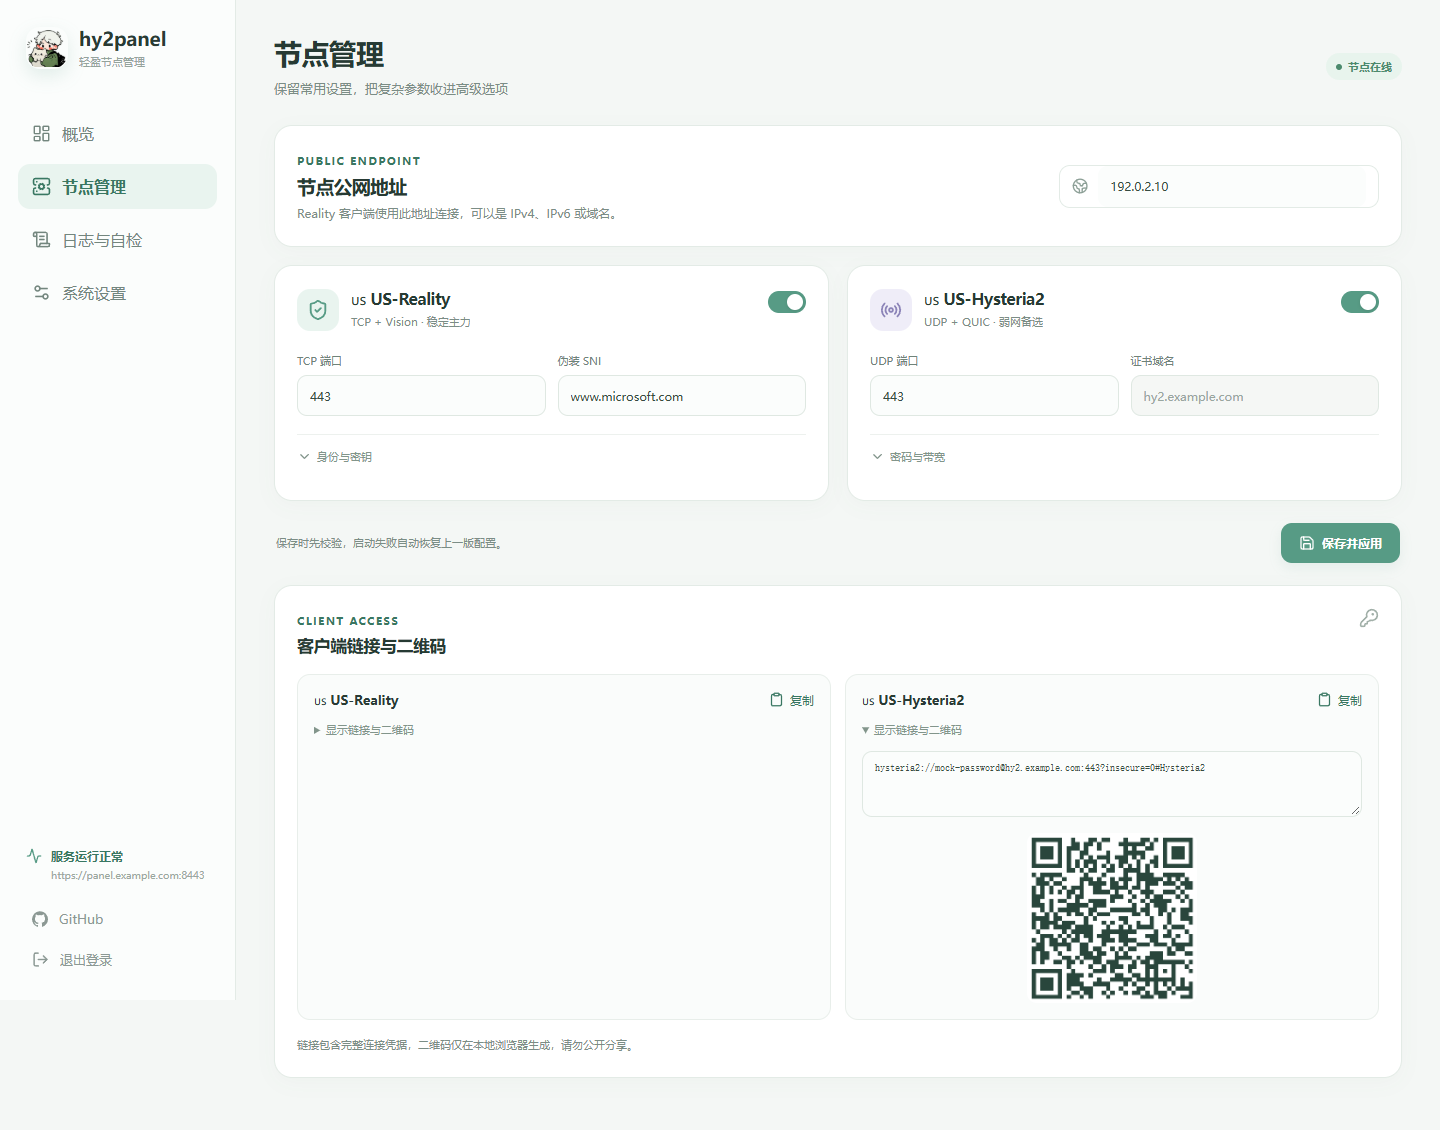
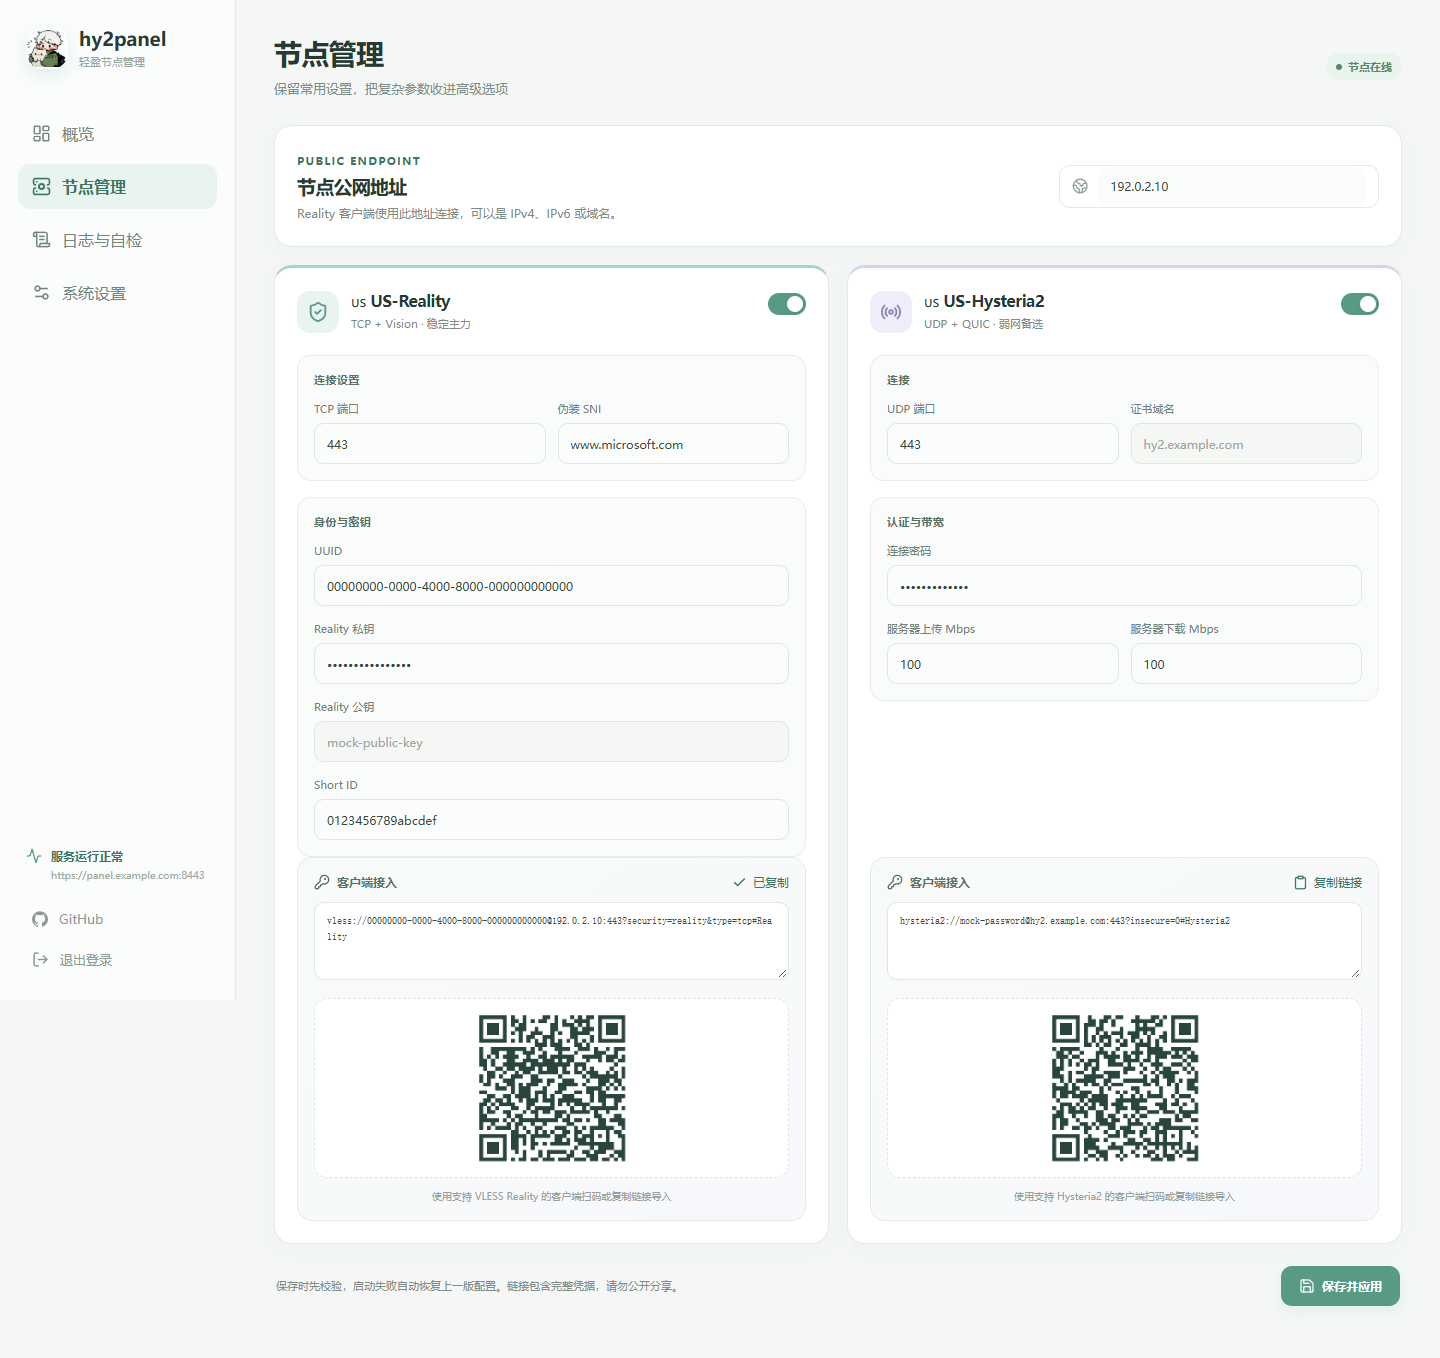
feat: redesign node management without accordions

diff --git a/web/src/components/NodesView.vue b/web/src/components/NodesView.vue
@@ -1,6 +1,6 @@
 <script setup>
-import { computed, reactive, ref, watch } from 'vue'
-import { Check, ChevronDown, Clipboard, Globe2, KeyRound, Radio, Save, ShieldCheck } from '@lucide/vue'
+import { computed, reactive, watch } from 'vue'
+import { Check, Clipboard, Globe2, KeyRound, Radio, Save, ShieldCheck } from '@lucide/vue'
 import QRCode from 'qrcode'
 
 const props = defineProps({
@@ -13,13 +13,8 @@ const props = defineProps({
 const emit = defineEmits(['save', 'copy'])
 const realityName = computed(() => props.meta.reality_name || 'VLESS Reality')
 const hysteria2Name = computed(() => props.meta.hysteria2_name || 'Hysteria2')
-const openSection = ref('')
 const qr = reactive({ reality: '', hysteria2: '' })
 const previousLinks = {}
-
-function toggleSection(id) {
-  openSection.value = openSection.value === id ? '' : id
-}
 
 watch(() => props.links, async links => {
   for (const name of ['reality', 'hysteria2']) {
@@ -42,64 +37,75 @@ watch(() => props.links, async links => {
     </section>
 
     <div class="node-grid">
-      <section class="panel-card node-card">
+      <section class="panel-card node-card reality-card">
         <div class="node-heading">
           <div class="protocol-icon reality-icon"><ShieldCheck :size="22" /></div>
           <div><h3>{{ realityName }}</h3><p>TCP + Vision · 稳定主力</p></div>
-          <label class="toggle"><input v-model="form.reality.enabled" type="checkbox" /><span></span></label>
+          <label class="toggle"><input v-model="form.reality.enabled" type="checkbox" aria-label="启用 Reality" /><span></span></label>
         </div>
-        <div class="form-row">
-          <label>TCP 端口<input v-model.number="form.reality.port" type="number" min="1" max="65535" required /></label>
-          <label>伪装 SNI<input v-model.trim="form.reality.server_name" required /></label>
+
+        <div class="config-section">
+          <span class="config-title">连接设置</span>
+          <div class="form-row">
+            <label>TCP 端口<input v-model.number="form.reality.port" type="number" min="1" max="65535" required /></label>
+            <label>伪装 SNI<input v-model.trim="form.reality.server_name" required /></label>
+          </div>
         </div>
-        <details class="advanced-block" :open="openSection === 'reality-config'">
-          <summary @click.prevent="toggleSection('reality-config')"><ChevronDown :size="15" />身份与密钥</summary>
+
+        <div class="config-section">
+          <span class="config-title">身份与密钥</span>
           <label>UUID<input v-model.trim="form.reality.uuid" required /></label>
           <label>Reality 私钥<input v-model.trim="form.reality.private_key" type="password" autocomplete="off" required /></label>
           <label>Reality 公钥<input v-model.trim="form.reality.public_key" readonly required /></label>
           <label>Short ID<input v-model.trim="form.reality.short_id" required /></label>
-        </details>
+        </div>
+
+        <div class="client-section">
+          <div class="client-heading"><KeyRound :size="16" /><span>客户端接入</span><button v-if="links.reality" class="icon-text-button" type="button" @click="emit('copy', 'reality')"><Check v-if="copied === 'reality'" :size="15" /><Clipboard v-else :size="15" />{{ copied === 'reality' ? '已复制' : '复制链接' }}</button></div>
+          <textarea v-if="links.reality" :value="links.reality" readonly rows="3" class="link-text" aria-label="Reality 客户端链接" @focus="$event.target.select()"></textarea>
+          <p v-else class="access-empty">保存并应用后生成客户端链接。</p>
+          <div class="qr-wrap"><img v-if="qr.reality" :src="qr.reality" alt="Reality 客户端二维码" /><span v-else class="qr-empty">暂无二维码</span></div>
+          <p class="access-note">使用支持 VLESS Reality 的客户端扫码或复制链接导入</p>
+        </div>
       </section>
 
-      <section class="panel-card node-card">
+      <section class="panel-card node-card hy2-card">
         <div class="node-heading">
           <div class="protocol-icon hy2-icon"><Radio :size="22" /></div>
           <div><h3>{{ hysteria2Name }}</h3><p>UDP + QUIC · 弱网备选</p></div>
-          <label class="toggle"><input v-model="form.hysteria2.enabled" type="checkbox" /><span></span></label>
+          <label class="toggle"><input v-model="form.hysteria2.enabled" type="checkbox" aria-label="启用 Hysteria2" /><span></span></label>
         </div>
-        <div class="form-row">
-          <label>UDP 端口<input v-model.number="form.hysteria2.port" type="number" min="1" max="65535" required /></label>
-          <label>证书域名<input v-model="form.hysteria2.domain" readonly /></label>
+
+        <div class="config-section">
+          <span class="config-title">连接</span>
+          <div class="form-row">
+            <label>UDP 端口<input v-model.number="form.hysteria2.port" type="number" min="1" max="65535" required /></label>
+            <label>证书域名<input v-model="form.hysteria2.domain" readonly /></label>
+          </div>
         </div>
-        <details class="advanced-block" :open="openSection === 'hysteria2-config'">
-          <summary @click.prevent="toggleSection('hysteria2-config')"><ChevronDown :size="15" />密码与带宽</summary>
+
+        <div class="config-section">
+          <span class="config-title">认证与带宽</span>
           <label>连接密码<input v-model.trim="form.hysteria2.password" type="password" autocomplete="off" required /></label>
           <div class="form-row">
             <label>服务器上传 Mbps<input v-model.number="form.hysteria2.up_mbps" type="number" min="1" max="10000" required /></label>
             <label>服务器下载 Mbps<input v-model.number="form.hysteria2.down_mbps" type="number" min="1" max="10000" required /></label>
           </div>
-        </details>
+        </div>
+
+        <div class="client-section">
+          <div class="client-heading"><KeyRound :size="16" /><span>客户端接入</span><button v-if="links.hysteria2" class="icon-text-button" type="button" @click="emit('copy', 'hysteria2')"><Check v-if="copied === 'hysteria2'" :size="15" /><Clipboard v-else :size="15" />{{ copied === 'hysteria2' ? '已复制' : '复制链接' }}</button></div>
+          <textarea v-if="links.hysteria2" :value="links.hysteria2" readonly rows="3" class="link-text" @focus="$event.target.select()" aria-label="Hysteria2 客户端链接"></textarea>
+          <p v-else class="access-empty">保存并应用后生成客户端链接。</p>
+          <div class="qr-wrap"><img v-if="qr.hysteria2" :src="qr.hysteria2" alt="Hysteria2 客户端二维码" /><span v-else class="qr-empty">暂无二维码</span></div>
+          <p class="access-note">使用支持 Hysteria2 的客户端扫码或复制链接导入</p>
+        </div>
       </section>
     </div>
 
     <div class="save-bar">
-      <p>保存时先校验，启动失败自动恢复上一版配置。</p>
+      <p>保存时先校验，启动失败自动恢复上一版配置。链接包含完整凭据，请勿公开分享。</p>
       <button class="primary-button" type="submit" :disabled="saving"><Save :size="16" />{{ saving ? '正在应用…' : '保存并应用' }}</button>
     </div>
-
-    <section v-if="Object.keys(links).length" class="panel-card">
-      <div class="panel-heading"><div><span class="section-kicker">CLIENT ACCESS</span><h3>客户端链接与二维码</h3></div><KeyRound :size="20" class="muted-icon" /></div>
-      <div class="link-grid">
-        <article v-for="(link, name) in links" :key="name" class="client-link">
-          <div><strong>{{ name === 'reality' ? realityName : hysteria2Name }}</strong><button class="icon-text-button" type="button" @click="emit('copy', name)"><Check v-if="copied === name" :size="15" /><Clipboard v-else :size="15" />{{ copied === name ? '已复制' : '复制' }}</button></div>
-          <details :open="openSection === `link-${name}`">
-            <summary @click.prevent="toggleSection(`link-${name}`)">显示链接与二维码</summary>
-            <textarea :value="link" readonly rows="4" @focus="$event.target.select()"></textarea>
-            <img v-if="qr[name]" :src="qr[name]" :alt="`${name} 客户端二维码`" />
-          </details>
-        </article>
-      </div>
-      <p class="security-note">链接包含完整连接凭据，二维码仅在本地浏览器生成，请勿公开分享。</p>
-    </section>
   </form>
 </template>

diff --git a/web/src/style.css b/web/src/style.css
@@ -277,8 +277,25 @@ small { color: #8a9993; line-height: 1.55; }
 .address-card p { margin: 0; font-size: 12px; }
 .inline-input { display: flex; align-items: center; gap: 10px; min-width: 320px; padding: 0 12px; border: 1px solid var(--line); border-radius: 11px; color: #8da097; }
 .inline-input input { border: 0; }
-.node-grid { display: grid; grid-template-columns: repeat(2, minmax(0, 1fr)); gap: 18px; }
+.node-grid { display: grid; grid-template-columns: repeat(2, minmax(0, 1fr)); gap: 18px; align-items: stretch; }
+.node-card { display: flex; flex-direction: column; }
 .node-heading, .settings-heading { display: flex; align-items: center; gap: 12px; margin-bottom: 22px; }
+.node-card.reality-card { border-top: 3px solid #a9d3c1; }
+.node-card.hy2-card { border-top: 3px solid #d9d3ed; }
+.config-section { padding: 16px; border: 1px solid #e8eeea; border-radius: 14px; background: #fafcfb; }
+.config-section + .config-section { margin-top: 16px; }
+.config-title { display: block; margin-bottom: 14px; color: #587266; font-size: 11px; font-weight: 650; letter-spacing: .04em; }
+.config-section label:last-child, .config-section .form-row:last-child label { margin-bottom: 0; }
+.client-section { margin-top: auto; padding: 16px; border: 1px solid #e4ece7; border-radius: 15px; background: linear-gradient(145deg, #f7fbf8, #f7f8fc); }
+.client-heading { display: flex; align-items: center; gap: 7px; margin-bottom: 12px; color: #587267; }
+.client-heading span { flex: 1; font-size: 12px; font-weight: 650; }
+.client-heading .icon-text-button { flex: 0 0 auto; }
+.link-text { resize: vertical; min-height: 78px; background: white; font-family: ui-monospace, monospace; font-size: 10px; line-height: 1.55; word-break: break-all; }
+.qr-wrap { display: grid; place-items: center; min-height: 176px; margin-top: 14px; padding: 12px; border: 1px dashed #dce7e0; border-radius: 14px; background: white; }
+.qr-wrap img { display: block; width: 154px; height: 154px; }
+.qr-empty { color: #a0aea7; font-size: 11px; }
+.access-note { margin: 10px 0 0; color: #93a39b; font-size: 10px; line-height: 1.6; text-align: center; }
+.access-empty { margin: 0 0 12px; font-size: 11px; }
 .node-heading > div:nth-child(2), .settings-heading > div:nth-child(2) { flex: 1; }
 .node-heading h3, .settings-heading h3 { margin: 0 0 4px; font-size: 16px; }
 .node-heading p, .settings-heading p { margin: 0; font-size: 11px; }
@@ -307,10 +324,7 @@ input, textarea {
 }
 input:focus, textarea:focus { border-color: #8eb9a7; background: white; box-shadow: 0 0 0 3px #579b8510; }
 input[readonly] { color: #98a69f; background: #f5f7f5; }
-.advanced-block { margin-top: 3px; border-top: 1px solid #edf1ee; }
-.advanced-block summary, .client-link summary { padding: 14px 0; color: #82958b; font-size: 11px; cursor: pointer; }
-.advanced-block summary { display: flex; align-items: center; gap: 5px; }
-.advanced-block[open] summary svg { transform: rotate(180deg); }
+
 .save-bar { display: flex; align-items: center; justify-content: space-between; gap: 20px; padding: 4px 2px; }
 .save-bar p { margin: 0; font-size: 11px; }
 .link-grid { display: grid; grid-template-columns: repeat(2, minmax(0, 1fr)); gap: 14px; }

diff --git a/web/tests/ui.spec.js b/web/tests/ui.spec.js
@@ -26,24 +26,32 @@ test('dashboard renders metrics and Hairline without runtime errors', async ({ p
   await page.screenshot({ path: '../docs/images/dashboard.png', fullPage: true })
 })
 
+async function qrCodesReady(page) {
+  return page.locator('.qr-wrap img').evaluateAll(images => images.every(image => image.complete && image.naturalWidth > 0))
+}
+
 test('node configuration and client links are accessible', async ({ page }) => {
   await openDashboard(page)
   await page.getByRole('button', { name: '节点管理', exact: true }).click()
   await expect(page.getByRole('heading', { name: '🇺🇸 US-Reality', exact: true })).toBeVisible()
   await expect(page.getByRole('heading', { name: '🇺🇸 US-Hysteria2', exact: true })).toBeVisible()
-  const protocolDetails = page.locator('.advanced-block')
-  await page.getByText('身份与密钥', { exact: true }).click()
+  await expect(page.locator('.node-card details')).toHaveCount(0)
   await expect(page.getByLabel('UUID', { exact: true })).toBeVisible()
-  await page.getByText('密码与带宽', { exact: true }).click()
-  await expect(protocolDetails.nth(0)).not.toHaveAttribute('open', '')
-  await expect(protocolDetails.nth(1)).toHaveAttribute('open', '')
-  const clientDetails = page.locator('.client-link details')
-  await clientDetails.nth(0).locator('summary').click()
-  await expect(protocolDetails.nth(1)).not.toHaveAttribute('open', '')
-  await clientDetails.nth(1).locator('summary').click()
-  await expect(clientDetails.nth(0)).not.toHaveAttribute('open', '')
-  await expect(clientDetails.nth(1)).toHaveAttribute('open', '')
+  await expect(page.getByLabel('Reality 私钥', { exact: true })).toHaveAttribute('type', 'password')
+  await expect(page.getByLabel('连接密码', { exact: true })).toBeVisible()
+  await expect(page.getByLabel('Reality 客户端链接', { exact: true })).toHaveValue(/^vless:\/\//)
+  await expect(page.getByLabel('Hysteria2 客户端链接', { exact: true })).toHaveValue(/^hysteria2:\/\//)
+  const qrCodes = page.locator('.qr-wrap img')
+  await expect(qrCodes).toHaveCount(2)
+  await expect(qrCodes.first()).toBeVisible()
+  await expect(qrCodes.nth(1)).toBeVisible()
+  expect(await qrCodesReady(page)).toBe(true)
+  await page.getByRole('button', { name: '复制链接', exact: true }).first().click()
+  await expect(page.getByRole('button', { name: '已复制', exact: true })).toBeVisible()
   await page.screenshot({ path: '../docs/images/nodes.png', fullPage: true })
+  await page.setViewportSize({ width: 390, height: 844 })
+  const overflow = await page.evaluate(() => document.documentElement.scrollWidth > window.innerWidth + 1)
+  expect(overflow).toBe(false)
 })
 
 test('settings expose RackNerd and BBR controls', async ({ page }) => {

diff --git a/internal/version/version.go b/internal/version/version.go
@@ -1,3 +1,3 @@
 package version
 
-const Version = "0.4.1"
+const Version = "0.4.2"

diff --git a/README.md b/README.md
@@ -7,7 +7,7 @@
 ## 功能
 
 - VLESS Reality Vision 与 Hysteria2 配置、客户端链接和本地二维码
-- 节点配置与客户端接入使用互斥手风琴，展开一项时自动收起另一项
+- 节点配置、客户端链接和二维码按协议集中展示，无需展开或切换
 - 按节点公网 IP 生成「国旗 + 协议」客户端名称，如 `🇺🇸 US-Reality`
 - 实时上下行速率、曲线、累计流量、CPU、内存、磁盘和运行时间
 - RackNerd 官方 API 月度流量展示，成功结果缓存 5 分钟
@@ -74,7 +74,7 @@ curl -fsSL https://raw.githubusercontent.com/LinyuFiee/hy2panel/main/scripts/boo
 默认安装最新 Release。固定版本：
 
 ```bash
-export HY2PANEL_VERSION="v0.4.0"
+export HY2PANEL_VERSION="v0.4.2"
 ```
 
 ## RackNerd 流量配置
